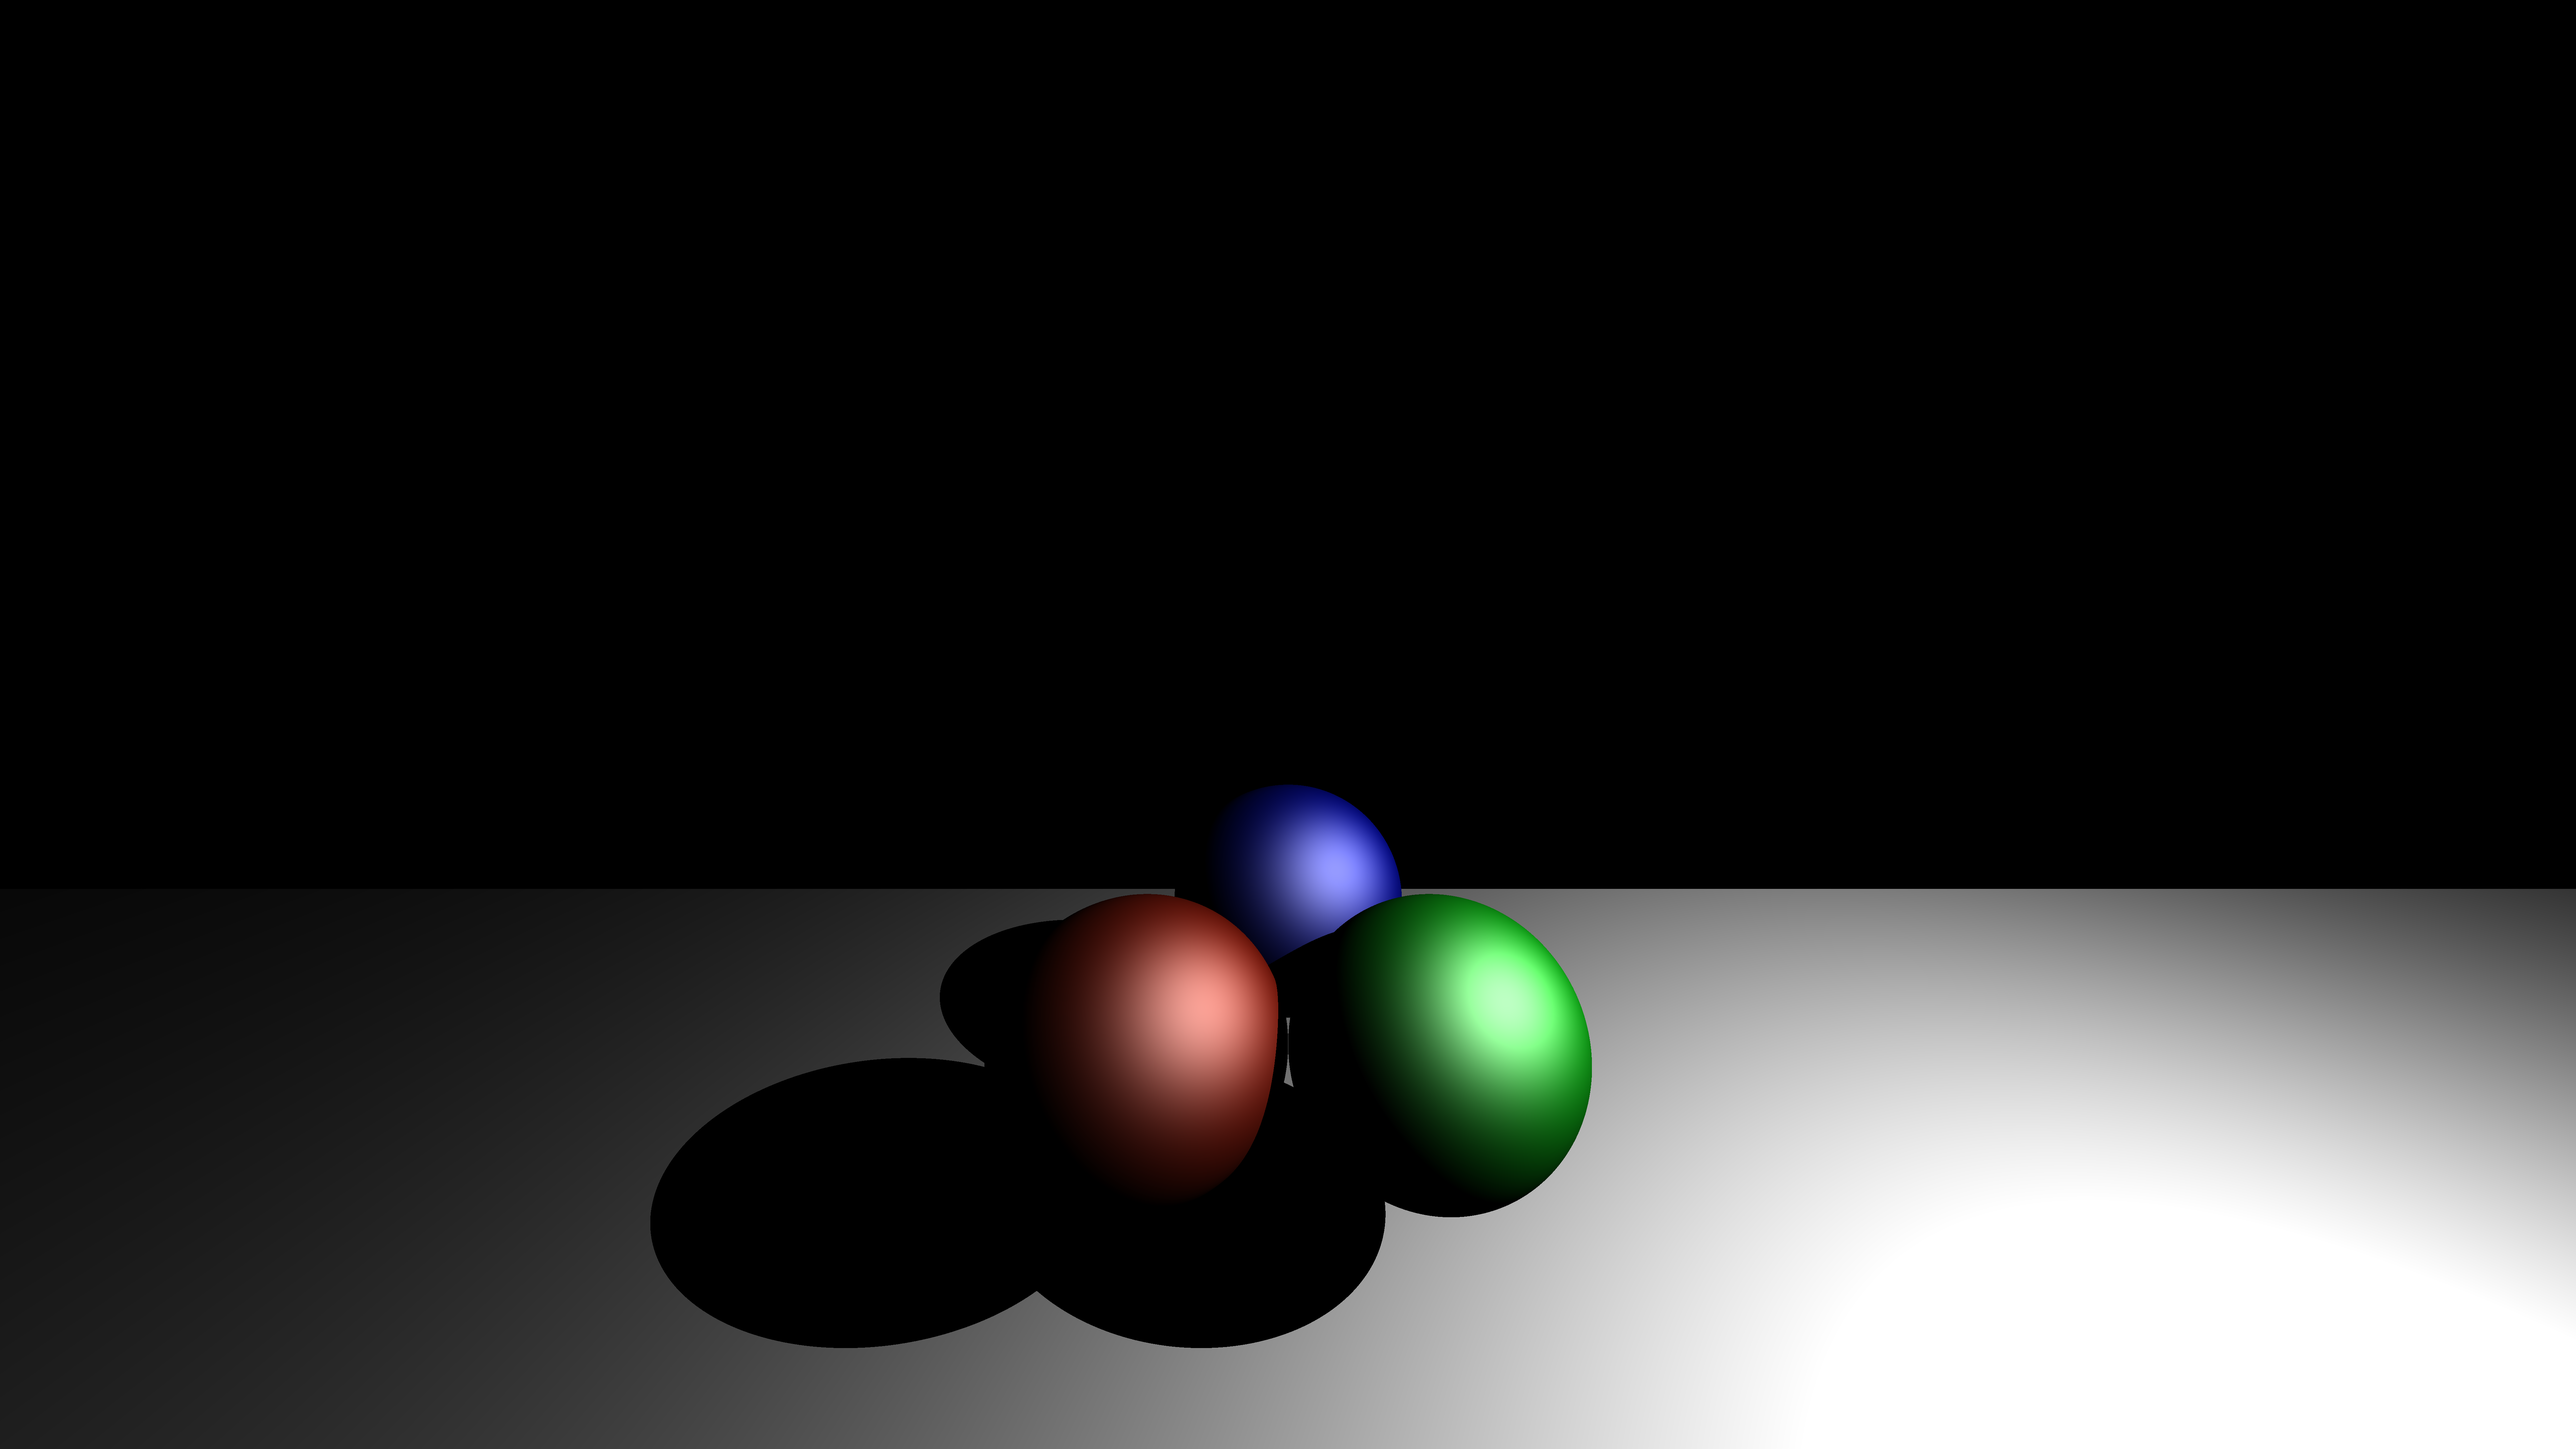
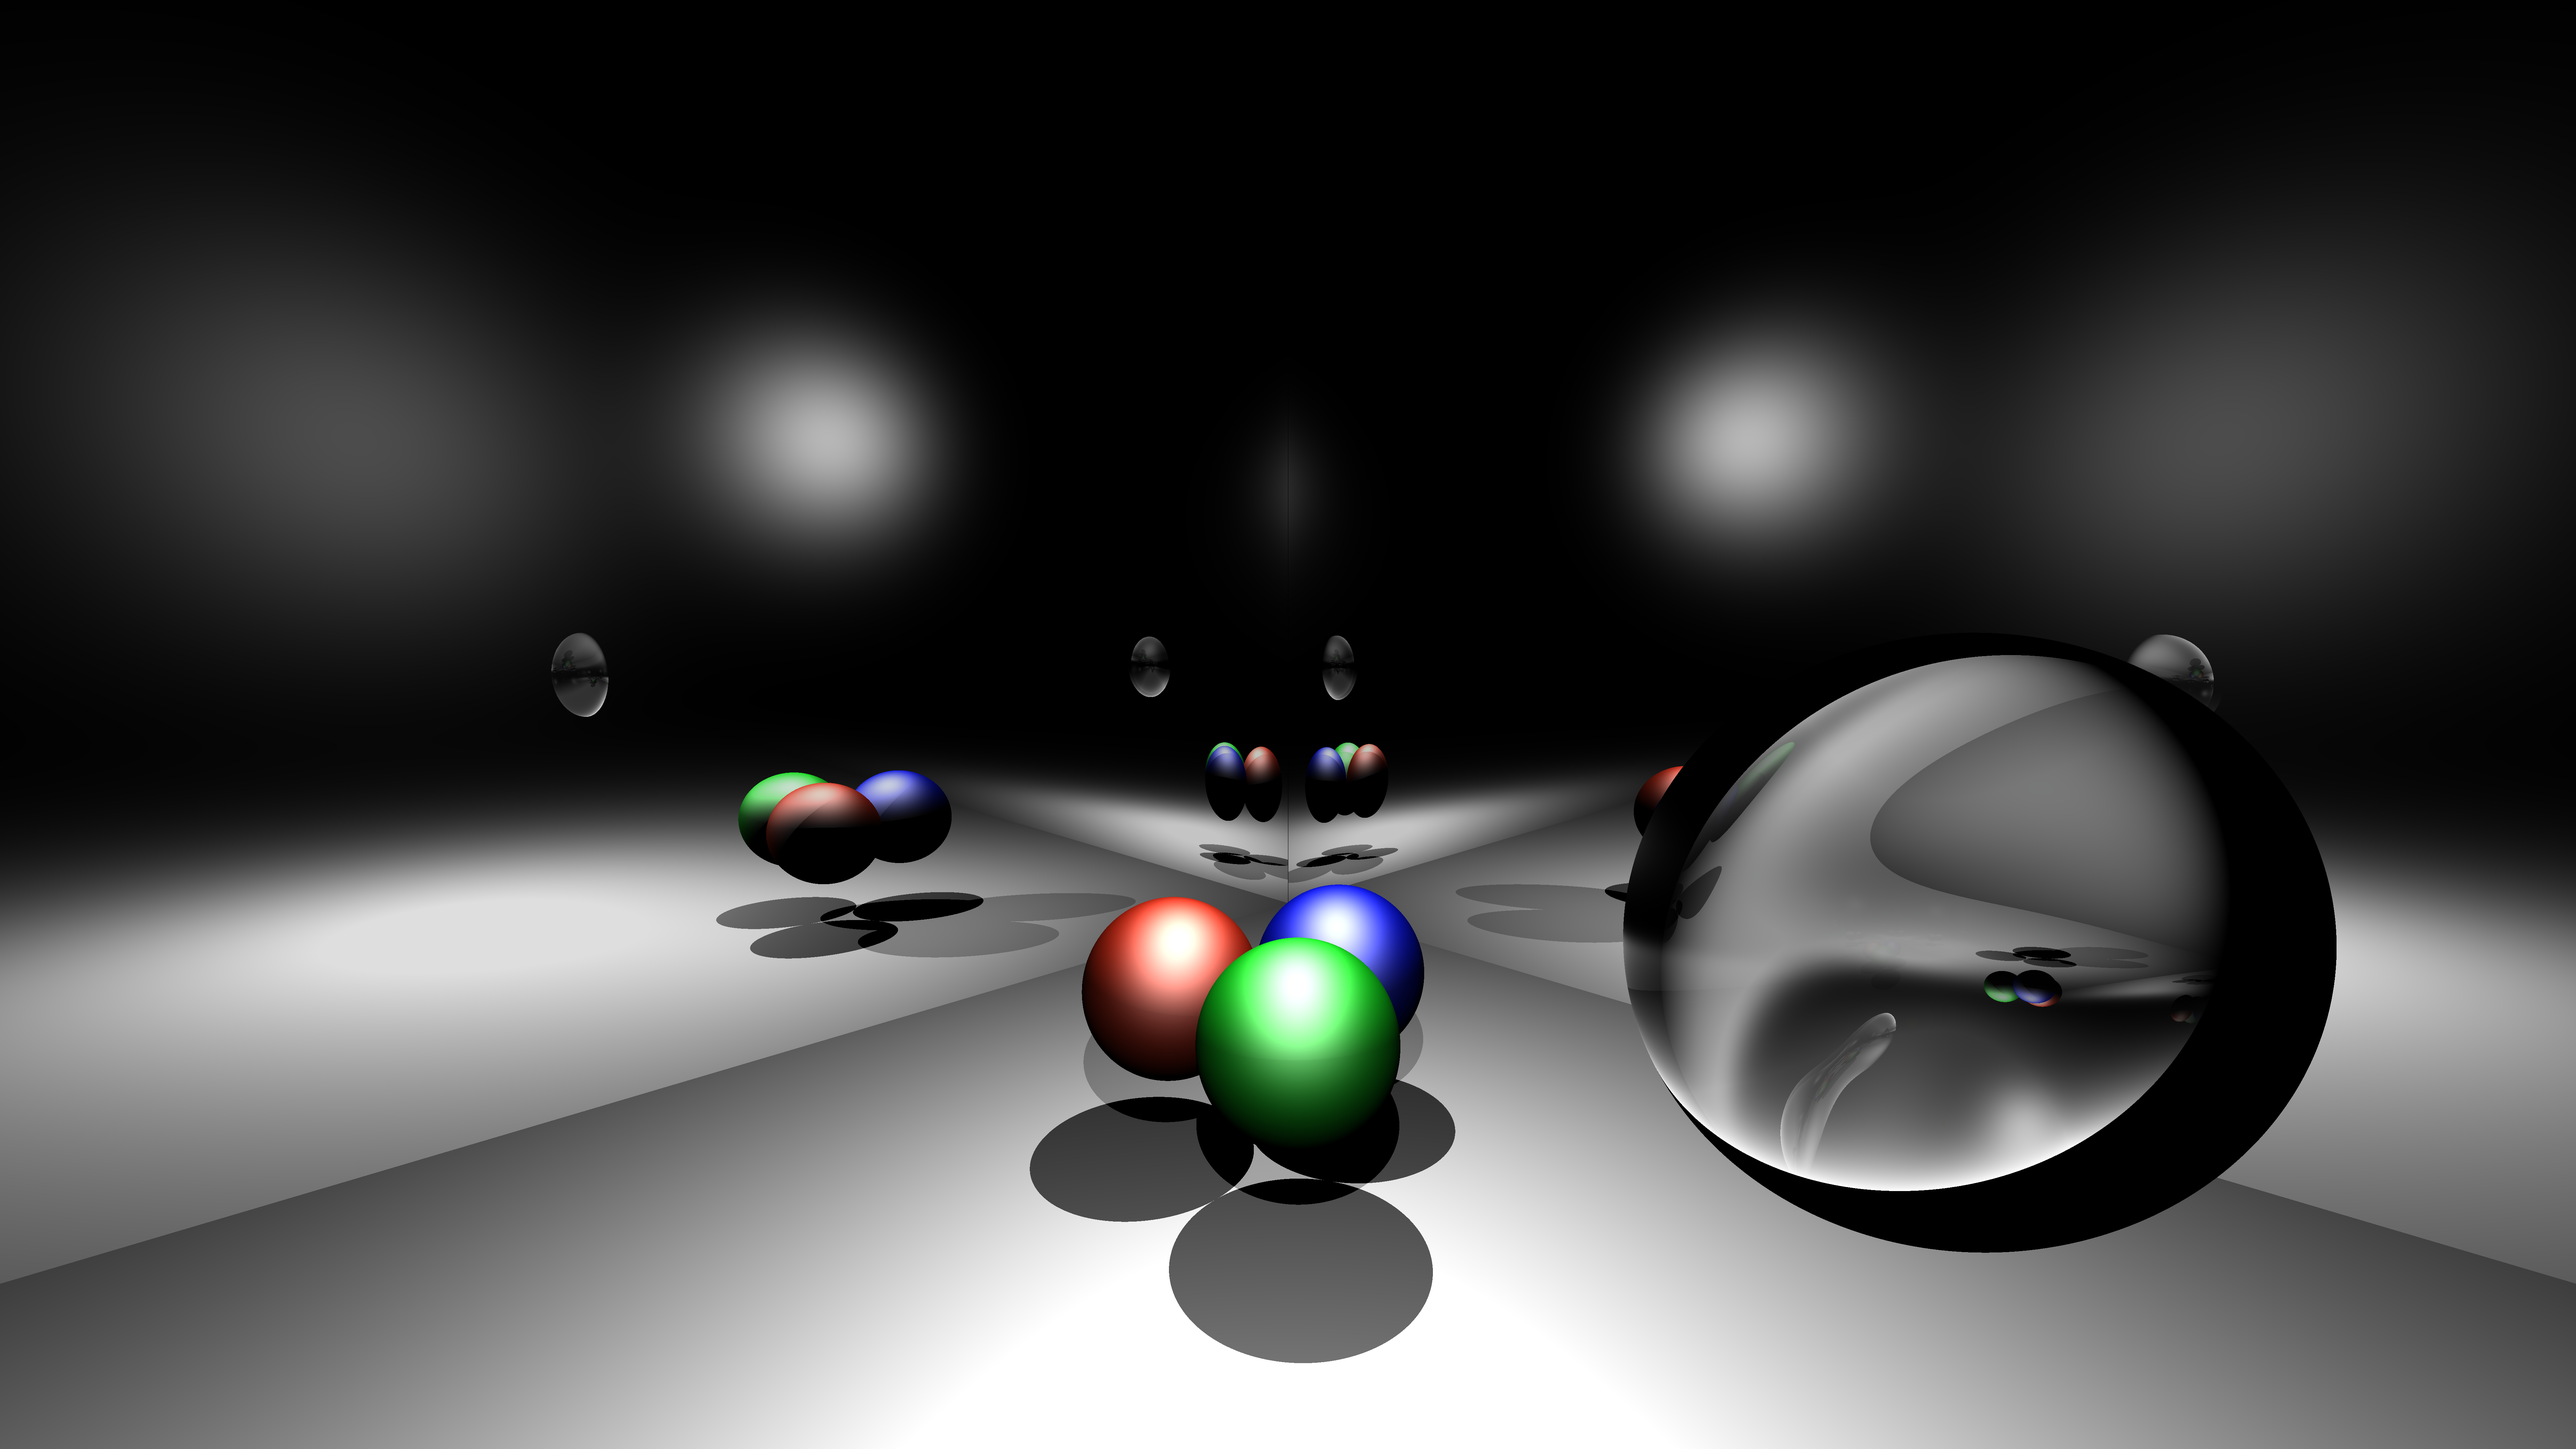
Model changes

diff --git a/src/main.rs b/src/main.rs
@@ -42,7 +42,8 @@ fn main() {
     let solid_shiny_green = Material::new_shiny(Color::new(0.07, 0.90, 0.11), (Color::new(1.0, 1.0, 1.0), 7.0), None);
     let solid_shiny_blue = Material::new_shiny(Color::new(0.03, 0.07, 0.93), (Color::new(1.0, 1.0, 1.0), 7.0), None);
     let solid_shiny_white = Material::new_shiny(Color::new(1.0, 1.0, 1.0), (Color::new(1.0, 1.0, 1.0), 4.0), None);
-    let silver = Material::new_reflective(FresnelIndex::new(0.17, 0.17, 0.17), FresnelIndex::new(2.0, 2.0, 2.0), None, None, None);
+    let silver = Material::new_reflective(FresnelIndex::new(0.17, 0.17, 0.17), FresnelIndex::new(2.0, 2.0, 2.0), None, Some((Color::one(), 100.0)), None);
+    let glass = Material::new_reflective_and_refractive(FresnelIndex::new(1.55, 1.5, 1.45), FresnelIndex::one(), None, None, None);
 
     let tan_60 = (PI/3.0).tan();
     
@@ -70,30 +71,43 @@ fn main() {
     let mirror = {
         let mut result = ModelViewModelWrapper::new_identity(SolidXYPlane::new(silver));
         result.rotate(Vector3::new(1.0, 0.0, 0.0), PI/2.0);
-        result.translate(Vector3::new(0.0, 5.0, 0.0));
+        result.translate(Vector3::new(0.0, 7.0, 0.0));
+        result
+    };
+    let mirror_2 = {
+        let mut result = ModelViewModelWrapper::new_identity(SolidXYPlane::new(silver));
+        result.rotate(Vector3::new(0.0, 1.0, 0.0), PI/2.0);
+        result.translate(Vector3::new(-7.0, 0.0, 0.0));
+        result
+    };
+    let lens = {
+        let mut result = ModelViewModelWrapper::new_identity(SolidUnitSphere::new(glass));
+        result.scale_non_uniform(Vector3::new(1.0, 0.4, 1.0));
+        result.rotate(Vector3::new(0.0, 0.0, 1.0), PI/5.0);
+        result.translate(Vector3::new(6.5, -3.5, 3.0));
         result
     };
 
-    let light = DotLightSource::new_natural(Color::new(1.0, 1.0, 1.0), 70.0, Point3::new(8.0, -3.0, 8.0));
-    let light_2 = DotLightSource::new_natural(Color::new(1.0, 1.0, 1.0), 70.0, Point3::new(8.0, 3.0, 8.0));
-//991, 349
+    let light = DotLightSource::new_natural(Color::new(1.0, 1.0, 1.0), 60.0, Point3::new(7.0, -7.0, 8.0));
+    let light_2 = DotLightSource::new_natural(Color::new(1.0, 1.0, 1.0), 40.0, Point3::new(0.0, 0.0, 8.0));
+
     let intersector = SimpleIntersector::new(vec![Box::new(sphere_1),
                                                   Box::new(sphere_2),
                                                   Box::new(sphere_3),
                                                   Box::new(plane),
-                                                  Box::new(mirror)]);
+                                                  Box::new(mirror),
+                                                  Box::new(mirror_2),
+                                                  Box::new(lens)]);
     let illuminator = SimpleIlluminator::new(vec![Box::new(light),
                                                   Box::new(light_2)]);
     let color_calculator = SimpleColorCalculator::new();
 
-    let world = SimpleWorld::new(intersector, color_calculator, illuminator, 5);
+    let world = SimpleWorld::new(intersector, color_calculator, illuminator, 8);
     let view = View::new_unit(Point3::new(7.0, -7.0, 4.0),
                               Vector3::new(-7.0, 7.0, -1.0), 
                               Vector3::new(0.0, 0.0, 1.0),
-                              1.77777777, 1.0, 1080);
+                              1.77777777, 0.8, 4320);
 
-    // let res = world.cast_ray(&view.get_ray_to_screen_coordinate(Point2Int::new(991, 349)).unwrap()).expect("None returned!");
-    // println!("Color: {:?}", res.get());
 
     let (screen_hor_res, screen_ver_res) = view.get_screen().get_resolutoion();
 
